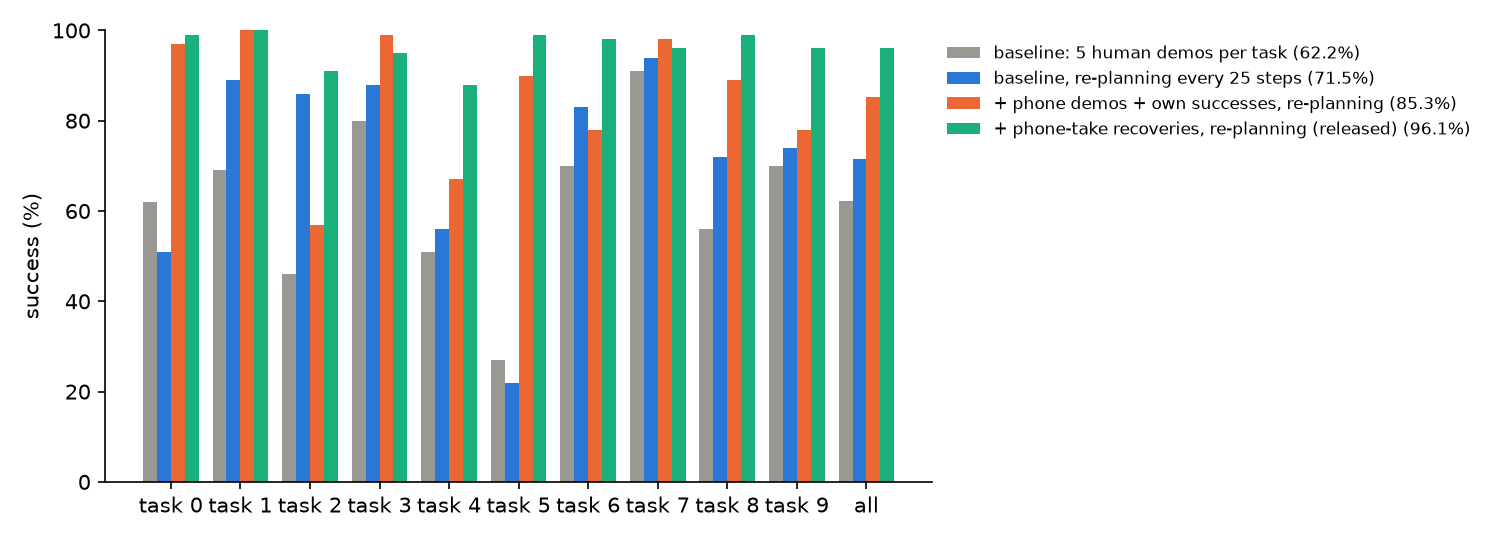
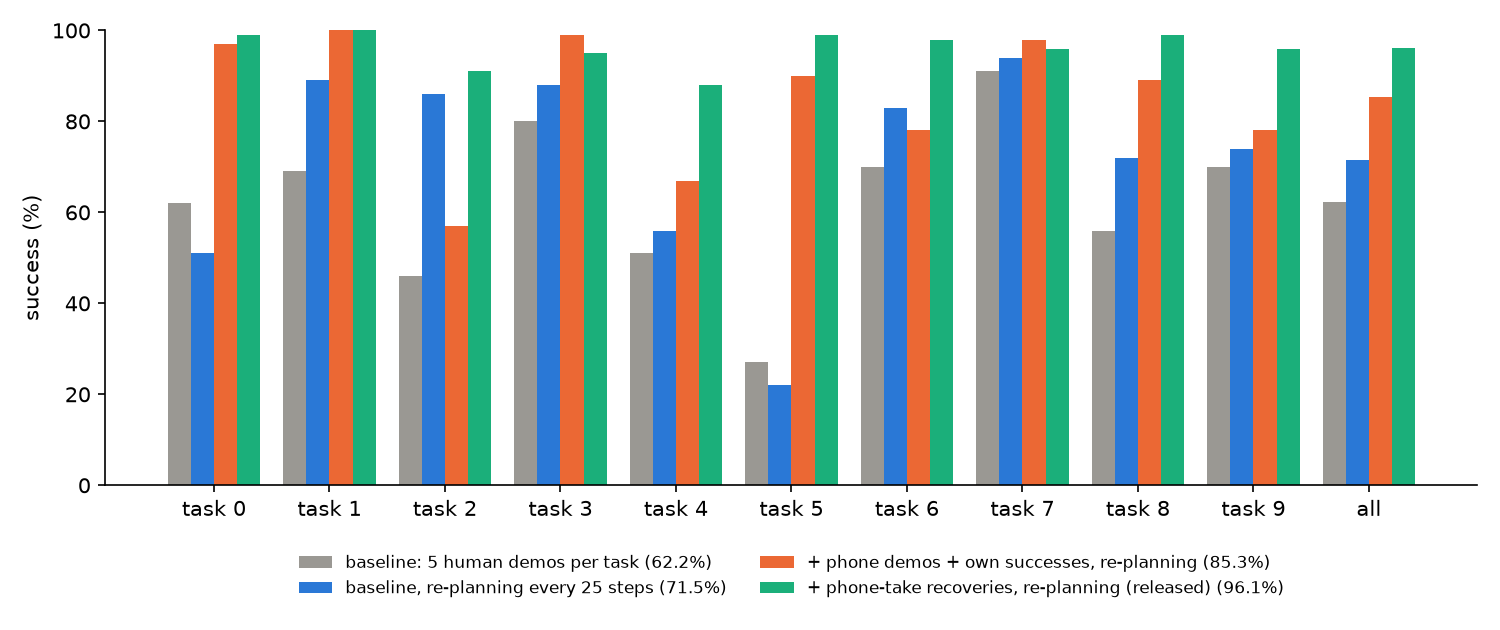
README figures: pipeline diagram instead of mermaid, legend under the results chart, mark the end of each episode
LIBERO ends an episode once the bowl rests on the plate, so the robot never releases it; the GIFs now say so on
the final frames and the README explains it.

diff --git a/tools/media.py b/tools/media.py
@@ -4,6 +4,7 @@ one take retargeted onto all ten tasks, a retry by the trained policy, and the r
 
   python tools/media.py hero --policy-eval <evals name>
   python tools/media.py scenes
+  python tools/media.py diagram
   python tools/media.py retry --policy-eval <evals name>
   python tools/media.py results baseline <model> ...
 """
@@ -32,6 +33,19 @@ def _label(img: np.ndarray, text: str) -> np.ndarray:
     w = d.textlength(text, font=FONT)
     d.rectangle([0, 0, w + 16, 28], fill=(0, 0, 0))
     d.text((8, 5), text, fill=(255, 255, 255), font=FONT)
+    return np.asarray(im)
+
+
+DONE = "success: bowl on plate"  # LIBERO ends the episode here, so the robot never lets go
+
+
+def _banner(img: np.ndarray, text: str) -> np.ndarray:
+    im = Image.fromarray(img)
+    d = ImageDraw.Draw(im)
+    w = d.textlength(text, font=FONT)
+    h = im.height
+    d.rectangle([0, h - 28, w + 16, h], fill=(20, 110, 60))
+    d.text((8, h - 23), text, fill=(255, 255, 255), font=FONT)
     return np.asarray(im)
 
 
@@ -108,6 +122,11 @@ class Scenes:
 
 
 @dataclass
+class Diagram:
+    """The pipeline: capture -> retargeting -> phone demos -> train, and the self-improvement loop."""
+
+
+@dataclass
 class Retry:
     """A late success from a model's eval videos (it missed, then tried again), shown at 2x speed."""
 
@@ -144,10 +163,13 @@ def hero(cfg: Hero) -> None:
     for k in range(0, n, step):
         i = min(k, len(sim) - 1)
         p = phone[int(np.argmin(np.abs(times - phone_t[i])))]
+        j = min(k, len(policy) - 1)
+        sim_f = _label(_fit(sim[i]), "my take, on the robot")
+        pol_f = _label(_fit(policy[j]), "trained policy, new scene")
         row = [
             _label(_fit(p), f"my hand, phone ({1 / TIME_SCALE:.1f}x speed)"),
-            _label(_fit(sim[i]), "my take, on the robot"),
-            _label(_fit(policy[min(k, len(policy) - 1)]), "trained policy, new scene"),
+            _banner(sim_f, DONE) if i >= rep.first_success else sim_f,
+            _banner(pol_f, DONE) if j == len(policy) - 1 else pol_f,
         ]
         frames.append(np.concatenate(row, 1))
     ASSETS.mkdir(exist_ok=True)
@@ -173,6 +195,59 @@ def scenes(cfg: Scenes) -> None:
     _save_gif(frames, ASSETS / "one_take_ten_scenes.gif", cfg.fps)
 
 
+def diagram(cfg: Diagram) -> None:
+    import matplotlib
+
+    matplotlib.use("Agg")
+    import matplotlib.pyplot as plt
+    from matplotlib.patches import FancyArrowPatch, FancyBboxPatch
+
+    boxes = {
+        "capture": (0.0, 1.0, "1. Capture", "phone video\n→ 50 takes of my hand"),
+        "retarget": (1.0, 1.0, "2. Retargeting", "each take → closed-loop\nrobot replay, checked"),
+        "demos": (2.0, 1.0, "3. Phone demos", "20 passing replays\nper task"),
+        "train": (3.0, 1.0, "4. Train SmolVLA", "5-shot demos\n+ everything so far"),
+        "run": (3.0, 0.0, "5. Run the policy", "keep its successes;\na phone take finishes\neach failure"),
+    }
+    fig, ax = plt.subplots(figsize=(10, 3.4), dpi=150)
+    w, h = 0.82, 0.62
+    for x, y, title, body in boxes.values():
+        loop = y == 0.0
+        ax.add_patch(
+            FancyBboxPatch(
+                (x - w / 2, y - h / 2),
+                w,
+                h,
+                boxstyle="round,pad=0.02,rounding_size=0.06",
+                facecolor="#e8f1fb" if loop else "#f3f2ef",
+                edgecolor="#2a78d6" if loop else "#9a9893",
+                lw=1.2,
+            )
+        )
+        ax.text(x, y + 0.17, title, ha="center", va="center", fontsize=10, weight="bold")
+        ax.text(x, y - 0.07, body, ha="center", va="center", fontsize=8.5, linespacing=1.3)
+
+    def arrow(a, b, rad=0.0, color="#555555"):
+        ax.add_patch(
+            FancyArrowPatch(
+                a, b, arrowstyle="-|>", mutation_scale=12, color=color, lw=1.2, connectionstyle=f"arc3,rad={rad}"
+            )
+        )
+
+    for x in (0.0, 1.0, 2.0):
+        arrow((x + w / 2, 1.0), (x + 1 - w / 2, 1.0))
+    arrow((3.0 + 0.12, 1.0 - h / 2), (3.0 + 0.12, h / 2), rad=-0.0, color="#2a78d6")
+    arrow((3.0 - 0.12, h / 2), (3.0 - 0.12, 1.0 - h / 2), color="#2a78d6")
+    ax.text(3.0 + 0.25, 0.5, "each round:\nnew data,\nretrain", ha="left", va="center", fontsize=8.5, color="#2a78d6")
+    ax.set_xlim(-0.5, 3.95)
+    ax.set_ylim(-0.4, 1.4)
+    ax.axis("off")
+    fig.tight_layout()
+    ASSETS.mkdir(exist_ok=True)
+    fig.savefig(ASSETS / "pipeline.png")
+    print(f"-> {ASSETS / 'pipeline.png'}")
+
+
 def retry(cfg: Retry) -> None:
     import imageio.v3 as iio
 
@@ -180,6 +255,7 @@ def retry(cfg: Retry) -> None:
     frames = list(iio.imread(video / f"eval_episode_{cfg.episode}.mp4"))
     step = 2 * round(20 / cfg.fps)  # LIBERO runs at 20 Hz
     out = [_label(_fit(f), f"trained policy, step {k}") for k, f in enumerate(frames) if k % step == 0]
+    out += [_banner(out[-1], DONE)] * round(1.5 * cfg.fps)
     ASSETS.mkdir(exist_ok=True)
     _save_gif(out, ASSETS / "retry.gif", cfg.fps)
 
@@ -194,7 +270,7 @@ def results(cfg: Results) -> None:
 
     labels = cfg.labels or cfg.names
     colors = ["#9a9893", "#2a78d6", "#eb6834", "#1baf7a", "#8a5cd6"]
-    fig, ax = plt.subplots(figsize=(10, 3.6), dpi=150)
+    fig, ax = plt.subplots(figsize=(10, 4.2), dpi=150)
     w = 0.8 / len(cfg.names)
     for j, (n, lab) in enumerate(zip(cfg.names, labels)):
         r = load(n)
@@ -210,7 +286,7 @@ def results(cfg: Results) -> None:
     ax.set_ylabel("success (%)")
     ax.set_ylim(0, 100)
     ax.spines[["top", "right"]].set_visible(False)
-    ax.legend(frameon=False, fontsize=8, loc="upper left", bbox_to_anchor=(1.0, 1.0))
+    ax.legend(frameon=False, fontsize=8, ncol=2, loc="upper center", bbox_to_anchor=(0.5, -0.12))
     fig.tight_layout()
     ASSETS.mkdir(exist_ok=True)
     fig.savefig(ASSETS / "results.png")
@@ -221,11 +297,12 @@ def main() -> None:
     cmd = tyro.cli(
         Annotated[Hero, tyro.conf.subcommand("hero")]
         | Annotated[Scenes, tyro.conf.subcommand("scenes")]
+        | Annotated[Diagram, tyro.conf.subcommand("diagram")]
         | Annotated[Retry, tyro.conf.subcommand("retry")]
         | Annotated[Results, tyro.conf.subcommand("results")]
     )
     os.environ.setdefault("MUJOCO_GL", "egl")
-    {Hero: hero, Scenes: scenes, Retry: retry, Results: results}[type(cmd)](cmd)
+    {Hero: hero, Scenes: scenes, Diagram: diagram, Retry: retry, Results: results}[type(cmd)](cmd)
 
 
 if __name__ == "__main__":

diff --git a/README.md b/README.md
@@ -7,6 +7,9 @@ over the same 1000 test episodes.
 
 ![my hand, the same take retargeted onto the robot, and the trained policy](assets/hero.gif)
 
+LIBERO counts a task as done once the bowl rests on the plate and ends the episode there (the 5-shot demos stop
+3 frames later, and so does every dataset here), so the robot never lets go of the bowl; my hand does.
+
 | Model (SmolVLA) | Training data | Success, 1000 test episodes | vs baseline (paired, 95% interval) |
 |---|---|---|---|
 | Baseline | 50 LIBERO demos (5 per task) | 62.2% | |
@@ -42,11 +45,7 @@ The model, datasets and recordings are on Hugging Face:
 
 ## How it works
 
-```mermaid
-flowchart LR
-    A["1. Capture<br/>phone video → 50 takes"] --> B["2. Retargeting<br/>take → robot replay"] --> C["3. Phone demos<br/>20 passing replays per task"] --> D["4. Train"]
-    D --> E["5. Run the policy<br/>keep its successes;<br/>a phone take finishes its failures"] --> D
-```
+![pipeline: capture, retargeting, phone demos, training, and the self-improvement loop](assets/pipeline.png)
 
 **1. Capture** (`capture/`, its own uv environment). One phone films the scene side-on. The camera is
 calibrated from the rig itself: the plate outline, the floor card's ends, the backdrop's edges and marks at
